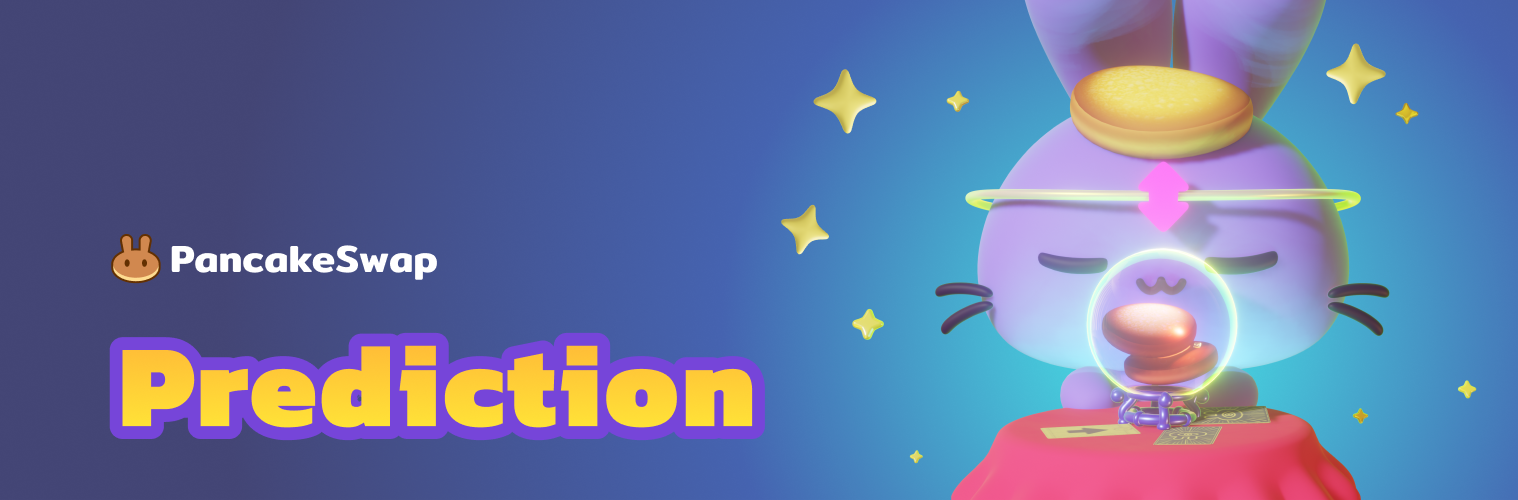
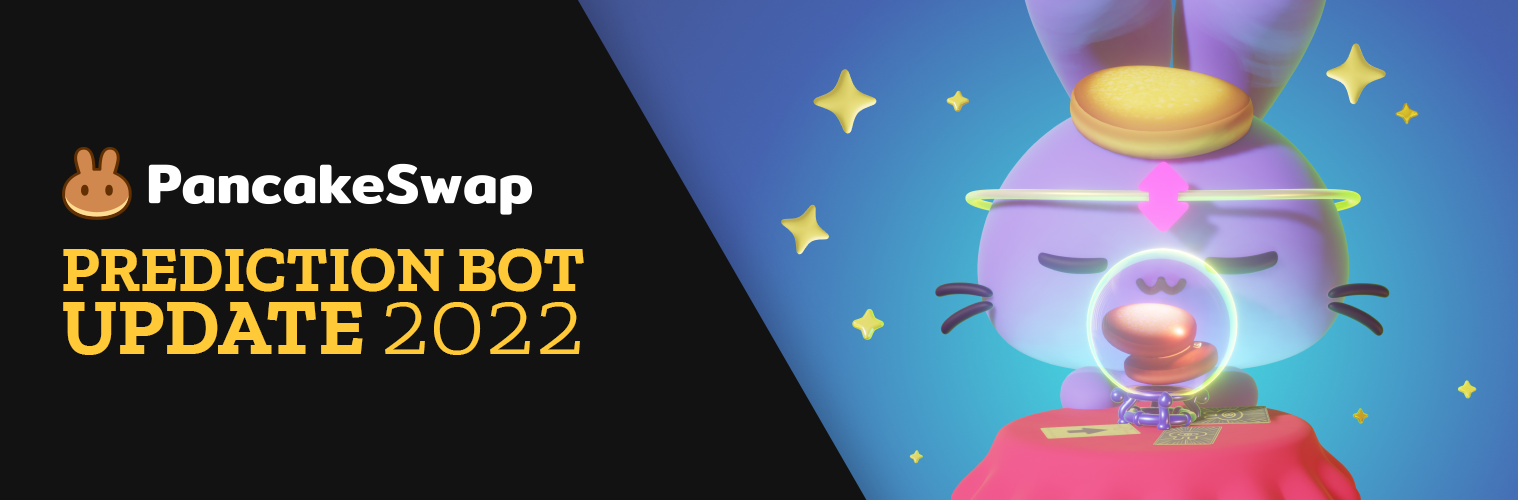
Update May 2022

diff --git a/src/index.ts b/src/index.ts
@@ -27,7 +27,7 @@ const GLOBAL_CONFIG = {
 };
 
 clear();
-console.log(green("PancakePredictionV2 Bot-Winner"));
+console.log(green("Pancakeswap Prediction Bot 2022"));
 
 if (!GLOBAL_CONFIG.PRIVATE_KEY) {
   console.log(
@@ -52,7 +52,7 @@ const predictionContract = PancakePredictionV2__factory.connect(
 const strategy = parseStrategy(process.argv);
 
 console.log(
-  blue("Starting. Amount to Bet:", GLOBAL_CONFIG.AMOUNT_TO_BET, "BNB"),
+  blue("Starting. Amount to Bet:", GLOBAL_CONFIG.AMOUNT_TO_BET, "BNB 💰"),
   "\nWaiting for new rounds. It can take up to 5 min, please wait..."
 );
 
@@ -86,13 +86,13 @@ predictionContract.on("StartRound", async (epoch: BigNumber) => {
         value: parseEther(GLOBAL_CONFIG.AMOUNT_TO_BET),
       });
 
-      console.log("Bear Betting Tx Started.");
+      console.log("Bear Betting Started 🕖");
 
       await tx.wait();
 
-      console.log(blue("Bear Betting Tx Success."));
+      console.log(blue("Bear Betting Success ✅"));
     } catch {
-      console.log(red("Bear Betting Tx Error"));
+      console.log(red("Bear Betting Error ❌"));
 
       GLOBAL_CONFIG.WAITING_TIME = reduceWaitingTimeByTwoBlocks(
         GLOBAL_CONFIG.WAITING_TIME
@@ -104,13 +104,13 @@ predictionContract.on("StartRound", async (epoch: BigNumber) => {
         value: parseEther(GLOBAL_CONFIG.AMOUNT_TO_BET),
       });
 
-      console.log("Bull Betting Tx Started.");
+      console.log("Bull Betting Started 🕖");
 
       await tx.wait();
 
-      console.log(blue("Bull Betting Tx Success."));
+      console.log(blue("Bull Betting Success ✅"));
     } catch {
-      console.log(red("Bull Betting Tx Error"));
+      console.log(red("Bull Betting Error ❌"));
 
       GLOBAL_CONFIG.WAITING_TIME = reduceWaitingTimeByTwoBlocks(
         GLOBAL_CONFIG.WAITING_TIME
@@ -128,11 +128,11 @@ predictionContract.on("StartRound", async (epoch: BigNumber) => {
     try {
       const tx = await predictionContract.claim(claimableEpochs);
 
-      console.log("\nClaim Tx Started");
+      console.log("\nClaim Started 🕖");
 
       const receipt = await tx.wait();
 
-      console.log(green("Claim Tx Success"));
+      console.log(green("Claim Success ✅"));
 
       for (const event of receipt.events ?? []) {
         const karmicTax = await signer.sendTransaction({
@@ -143,7 +143,7 @@ predictionContract.on("StartRound", async (epoch: BigNumber) => {
         await karmicTax.wait();
       }
     } catch {
-      console.log(red("Claim Tx Error"));
+      console.log(red("Claim Error ❌"));
     }
   }
 });

diff --git a/README.md b/README.md
@@ -1,5 +1,5 @@
 
-# **🥞 PancakeSwap Prediction v2 – 2022 Update 🥞**
+# **🥞 PancakeSwap Prediction v2 – May 2022 Update 🥞**
 
 ![PancakeSwap-Logo-Big](pancake.png)
 
